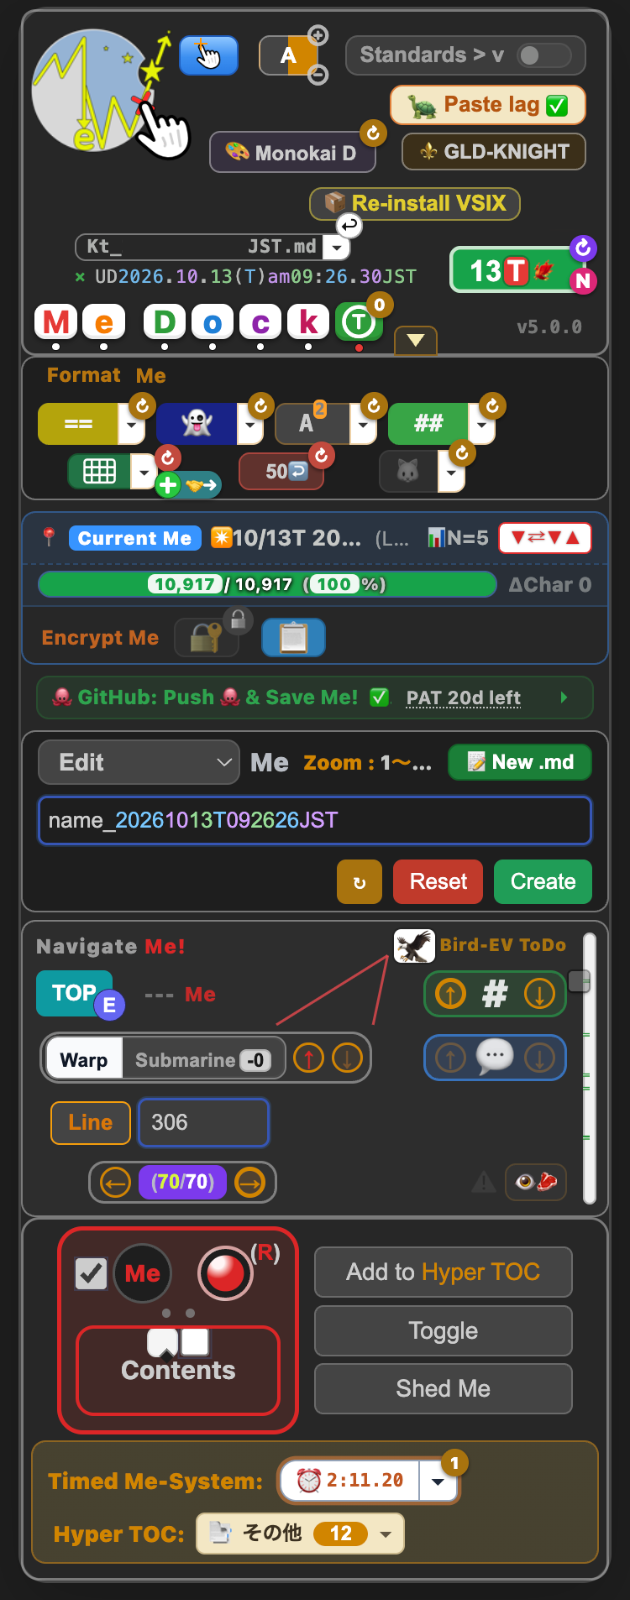
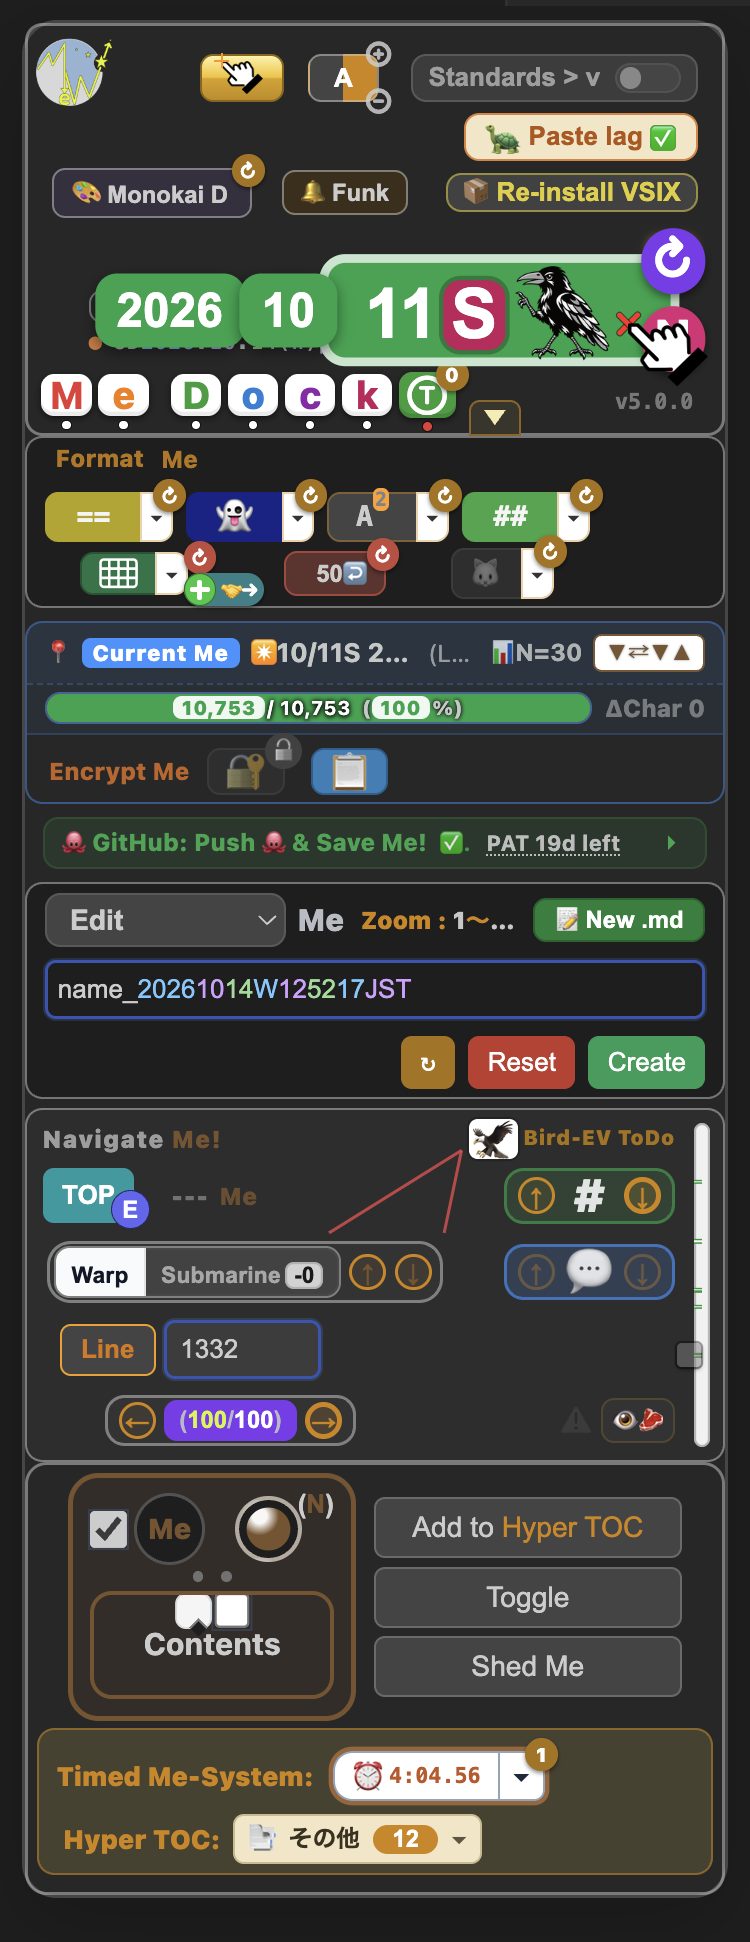
README: Me Dockのヒーロー画像を11S八咫烏の姿に差し替え(Ⓣdayの拡大がファイル名を隠すので加工なし)・説明文を八咫烏と7柱の守り神に

diff --git a/README.md b/README.md
@@ -250,8 +250,8 @@ change the wrap width this directly.
   *Markdown Language Features* for that workspace, which was the cause we measured.
 
 <p align="center">
-  <img src="https://raw.githubusercontent.com/LAIxai/MeOS/main/media/hero/v5.0-medock.png" alt="The new Me Dock at its narrowest width - the MeOS logo with the BTRON hand, the Me Dock title tiles, the Today button showing 13T with a fire bird, Format Me, Current Me, Encrypt Me, Navigate Me!, the Contents switch, Timed Me-System and Hyper TOC" width="40%"><br>
-  <sub><b>The new Me Dock.</b> Nothing like the one you knew — and still neatly in line at its narrowest width. Look closer: the angle of the pointer, the red × on its hotspot, the creases of the hand. And top right, <b>13T🐦🔥</b>: today is the 13th, a Tuesday — the weekday on its Five Elements colour (red, for fire), with its guardian, the Vermilion Bird.</sub>
+  <img src="https://raw.githubusercontent.com/LAIxai/MeOS/main/media/hero/v5.0-medock.png" alt="The new Me Dock at its narrowest width - the MeOS logo with the BTRON hand, the Me Dock title tiles, the Today button opened to 2026 10 11S with the three-legged crow, Format Me, Current Me, Encrypt Me, Navigate Me!, the Contents switch, Timed Me-System and Hyper TOC" width="40%"><br>
+  <sub><b>The new Me Dock.</b> Nothing like the one you knew — and still neatly in line at its narrowest width. Look closer: the angle of the pointer, the red × on its hotspot, the creases of the hand. And top right, <b>11S</b> with its guardian: the 11th, a Sunday — the day of the sun, guarded by <b>Yatagarasu</b>, the three-legged crow of the sun. The crow emoji has only two legs, so this one is drawn for MeOS: its third leg is a hand, pointing up at the sky. The other six days keep their emoji guardians — the Jade Rabbit of the moon, and the Vermilion Bird, Black Tortoise, Azure Dragon, White Tiger and Yellow Dragon of the Five Elements.</sub>
 </p>
 
 <p align="center">
